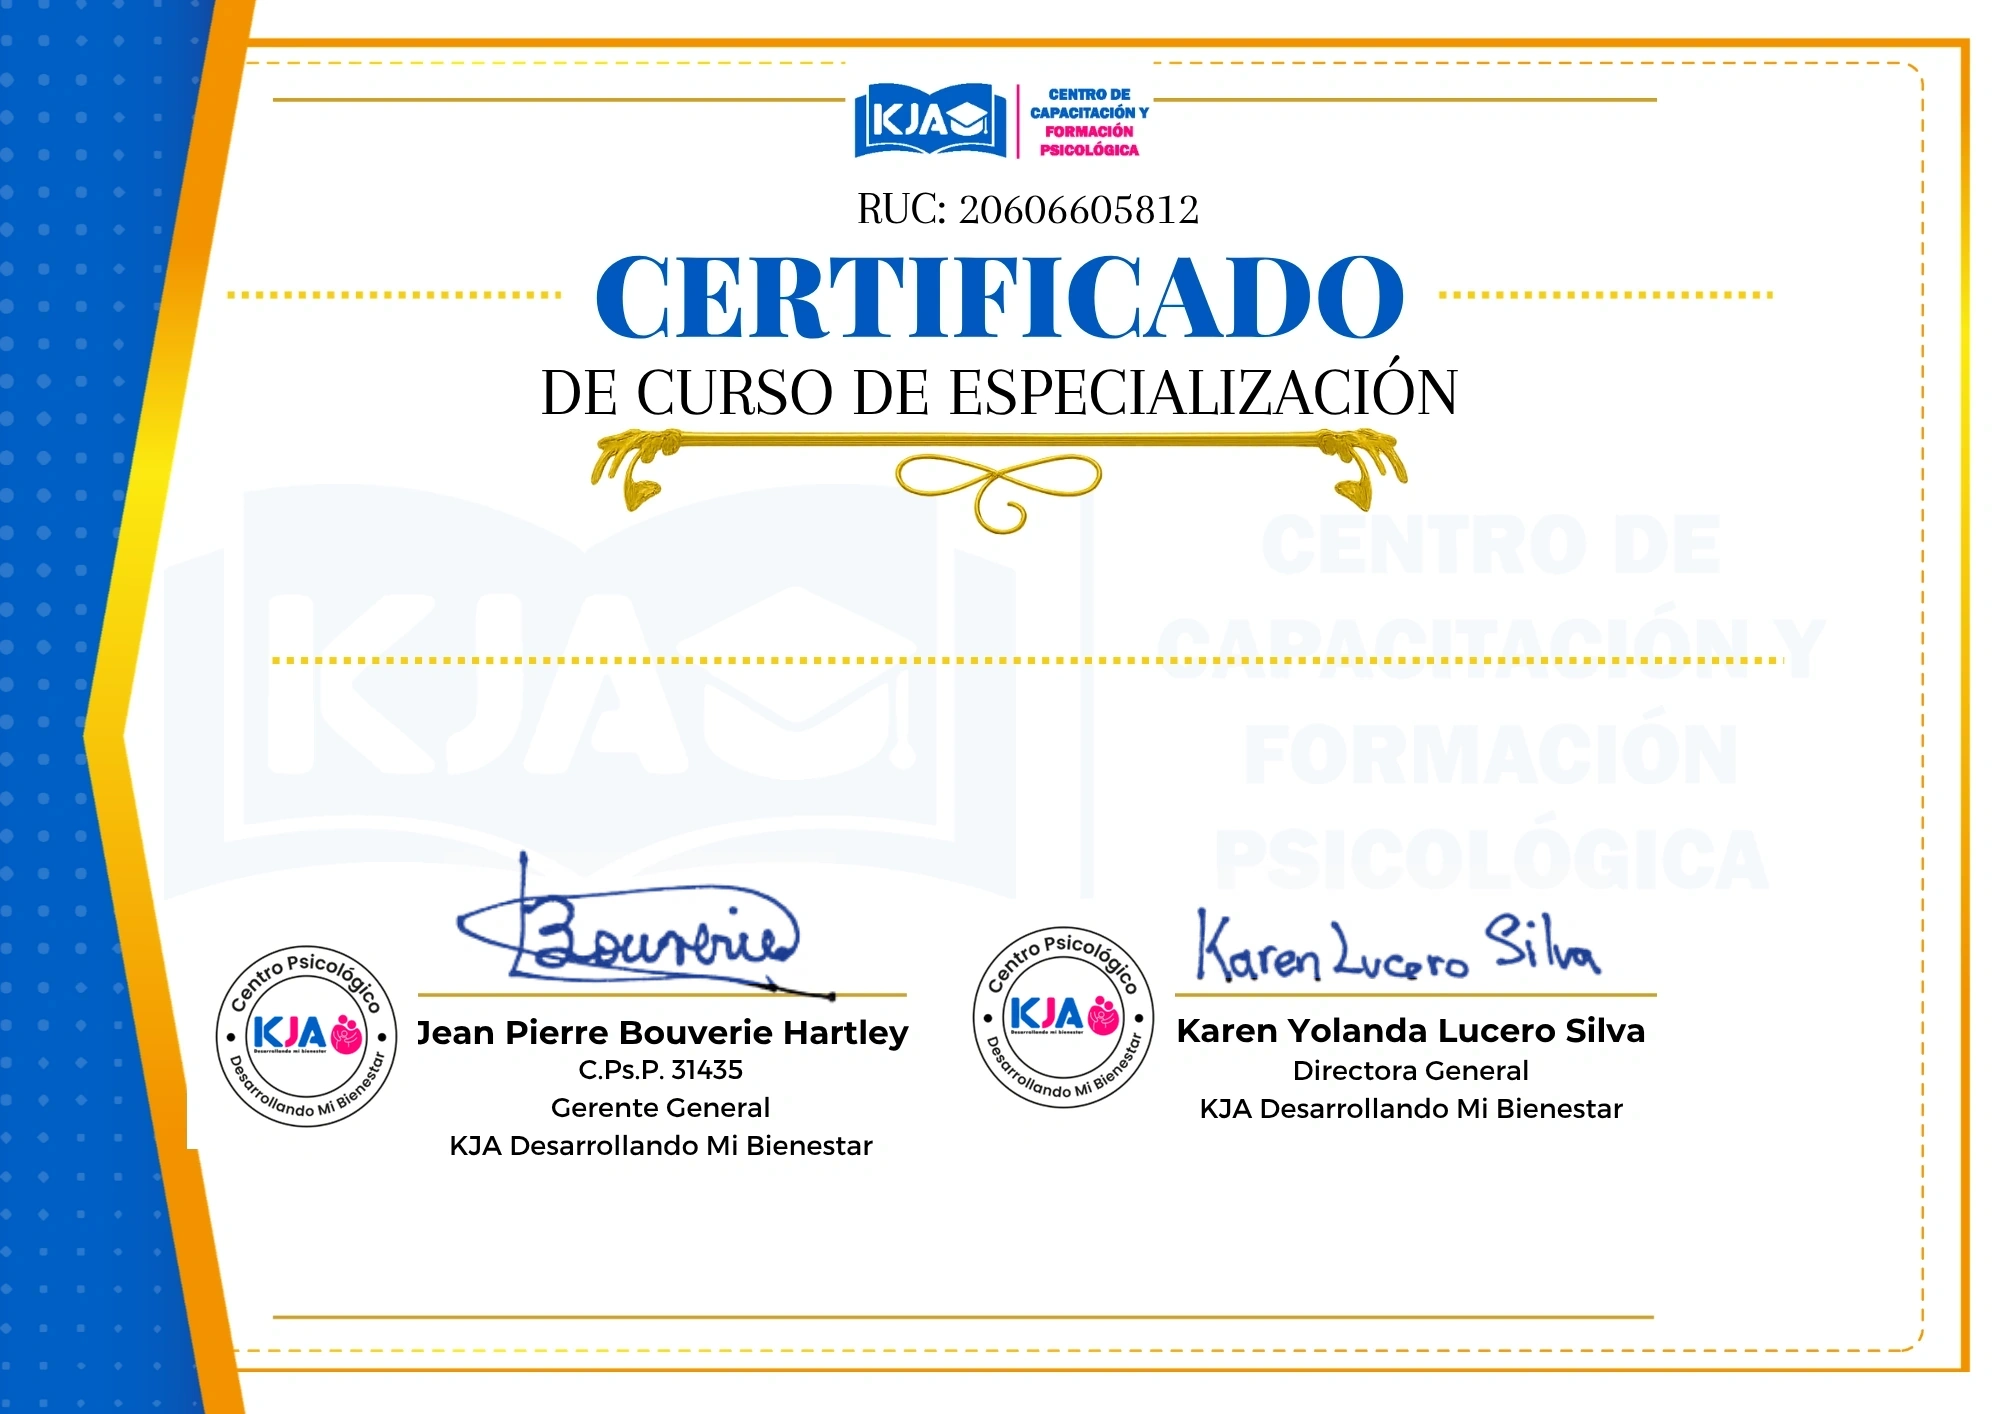
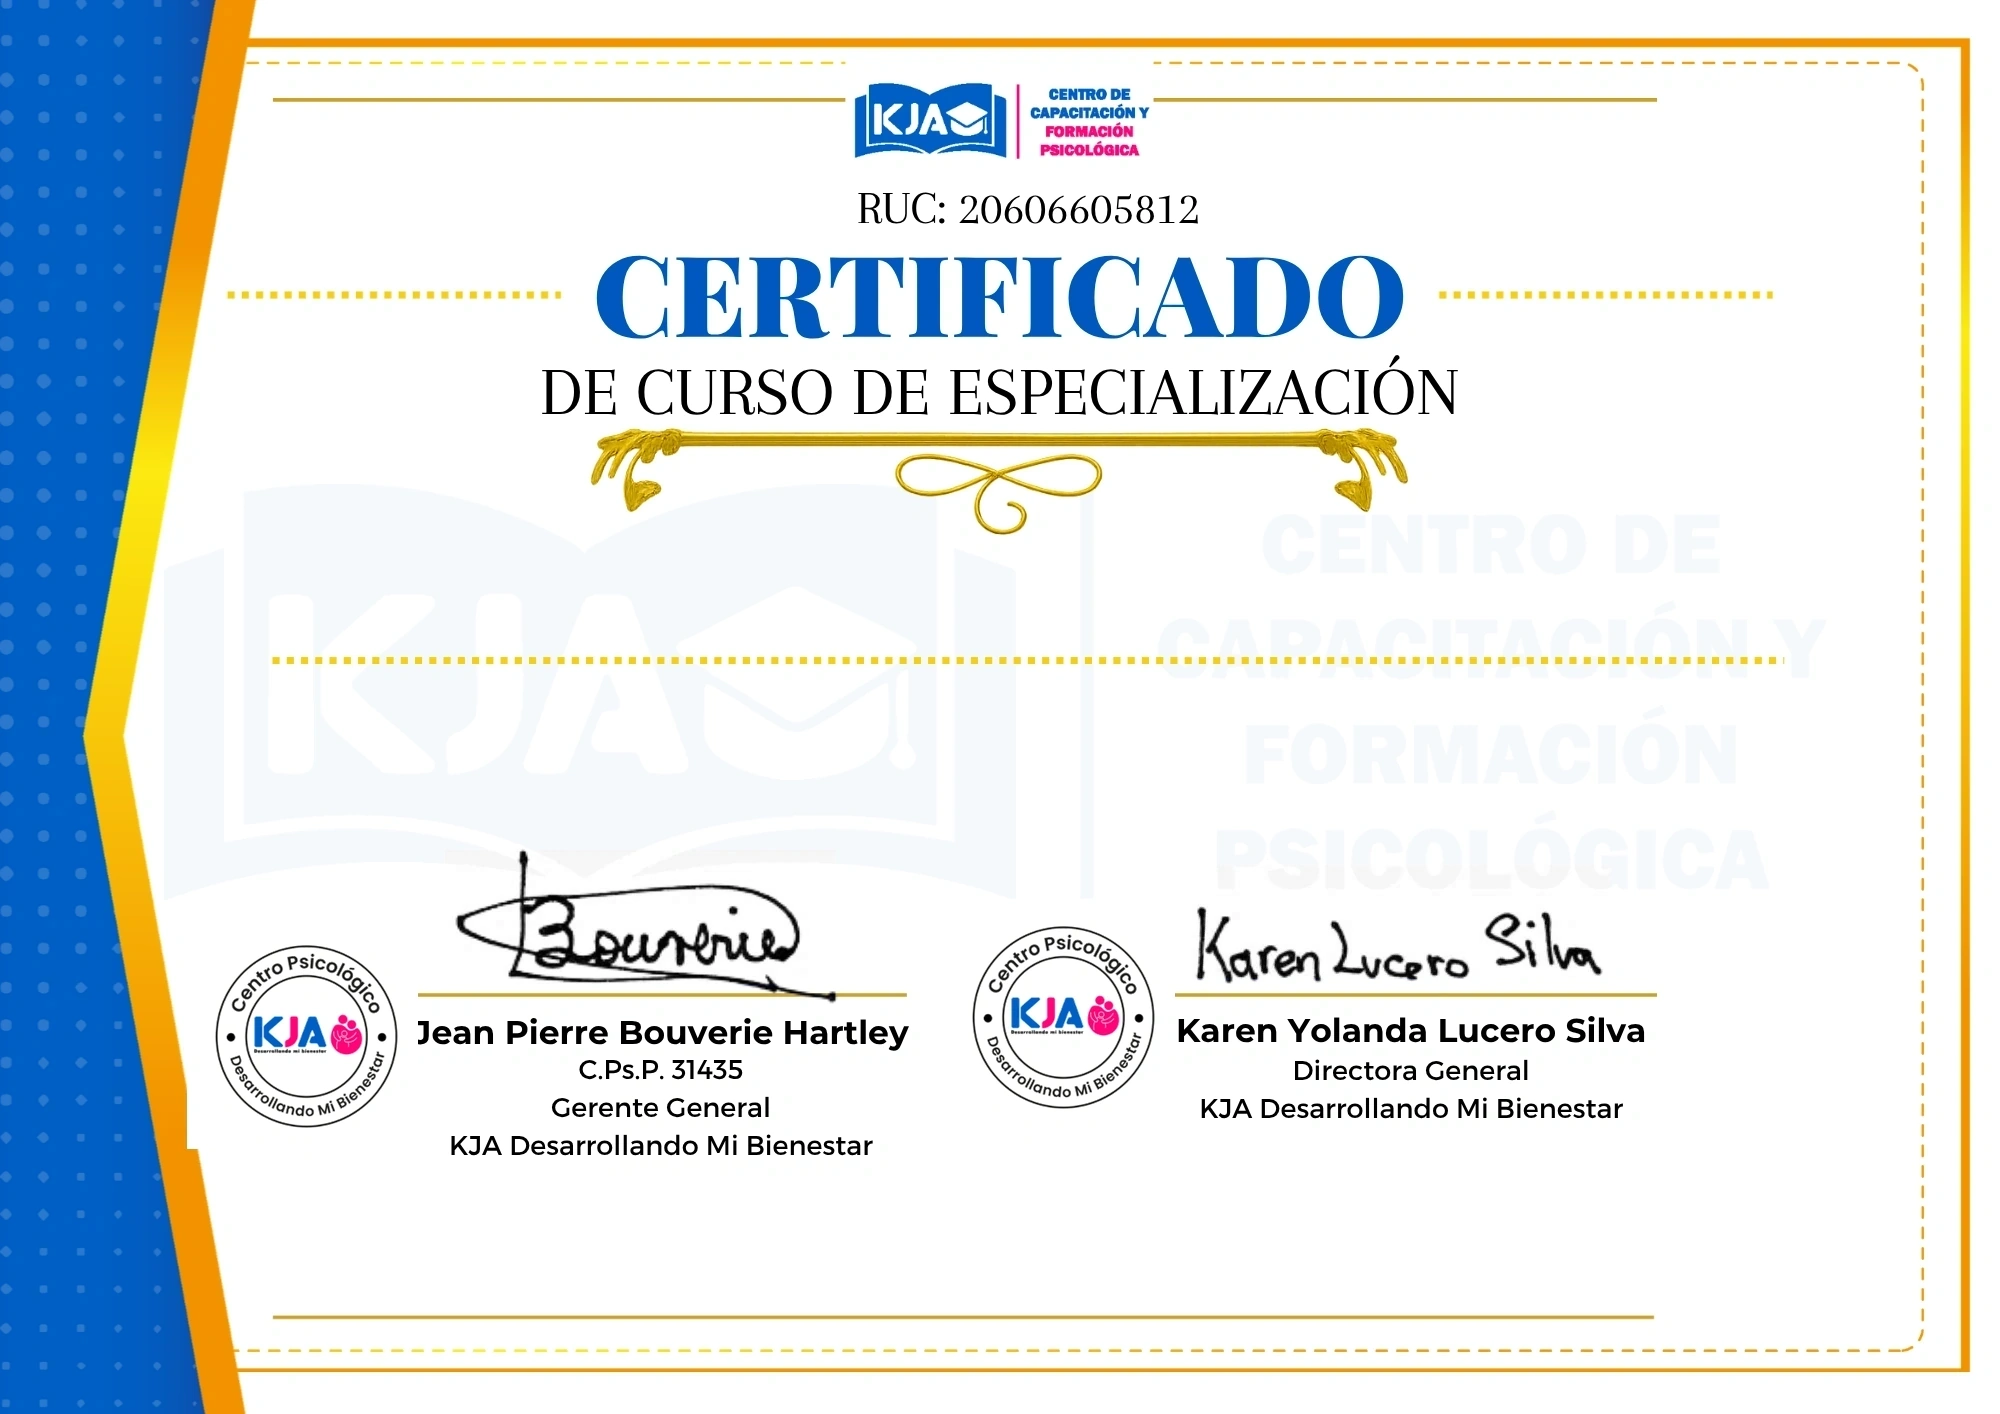
fix(certificados): revierte las firmas a negro por pedido de dirección
La prueba de firma azul de lapicero no convenció; se restaura el negro
original en las 4 plantillas y se sube el cache-busting en cert-render.js.

Changed region(s): [[0.217, 0.6223, 0.403, 0.7157], [0.589, 0.6223, 0.806, 0.7157]]

diff --git a/certificados/cert-render.js b/certificados/cert-render.js
@@ -36,7 +36,7 @@
 
   const TIPOS = {
     taller:{
-      plantilla:'Certificado_taller/PLANTILLA_CERTIFICADO_TALLER.webp?v=4',
+      plantilla:'Certificado_taller/PLANTILLA_CERTIFICADO_TALLER.webp?v=5',
       etiquetaTitulo:'Nombre del taller', fechas:'simple',
       nombre:{cx:1000, cy:675, maxW:1600, font:ROMANA, size:108, weight:400, color:'#071F70', upper:true, lh:108, align:'center'},
       cuerpo:{x:234, topY:912, maxW:1532, size:31, lh:46, color:'#2b2b2b', align:'justify'},
@@ -47,7 +47,7 @@
                  {t:` con una duración de ${d.duracion} horas académicas, realizado durante el periodo del ${d.fInicio}.`}]
     },
     curso:{
-      plantilla:'Certificado_cursos/PLANTILLA_CERTIFICADO_CURSOS.webp?v=3',
+      plantilla:'Certificado_cursos/PLANTILLA_CERTIFICADO_CURSOS.webp?v=4',
       etiquetaTitulo:'Nombre del curso', fechas:'rango',
       nombre:{cx:780, cy:662, maxW:1340, font:SCRIPT, size:104, weight:400, color:'#000000', lh:110, align:'center'},
       cuerpo:{x:120, topY:800, maxW:1300, size:31, lh:46, color:'#2b2b2b', align:'justify'},
@@ -58,7 +58,7 @@
                  {t:` con una duración de ${d.duracion} horas académicas, realizado durante el periodo del ${d.fInicio}, hasta el ${d.fFin}.`}]
     },
     especializacion:{
-      plantilla:'Certiicado_curso_especializacion/PLANTILLA_CERTIFICADO_CURSO_ESPECIALIZACION.webp?v=3',
+      plantilla:'Certiicado_curso_especializacion/PLANTILLA_CERTIFICADO_CURSO_ESPECIALIZACION.webp?v=4',
       etiquetaTitulo:'Nombre del curso de especialización', fechas:'rango',
       nombre:{cx:1005, cy:615, maxW:1700, font:SCRIPT, size:96, weight:400, color:'#1a1a1a', lh:100, align:'center'},
       cuerpo:{x:256, topY:725, maxW:1490, size:31, lh:46, color:'#2b2b2b', align:'justify'},
@@ -69,7 +69,7 @@
                  {t:` con una duración de ${d.duracion} horas académicas, realizado durante el periodo del ${d.fInicio}, hasta el ${d.fFin}.`}]
     },
     constancia:{
-      plantilla:'Certificado_constancia_taller_presencial/PLANTILLA_CERTIFICADO_TALLER_PRESENCIAL.webp?v=3',
+      plantilla:'Certificado_constancia_taller_presencial/PLANTILLA_CERTIFICADO_TALLER_PRESENCIAL.webp?v=4',
       etiquetaTitulo:'Nombre del taller', fechas:'simple',
       nombre:{cx:780, cy:660, maxW:1450, font:SCRIPT, size:92, weight:400, color:'#000000', lh:96, align:'center'},
       cuerpo:{x:160, topY:790, maxW:1380, size:31, lh:46, color:'#2b2b2b', align:'justify'},
